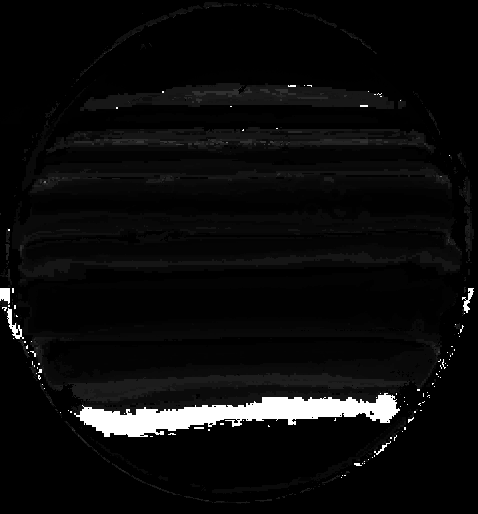
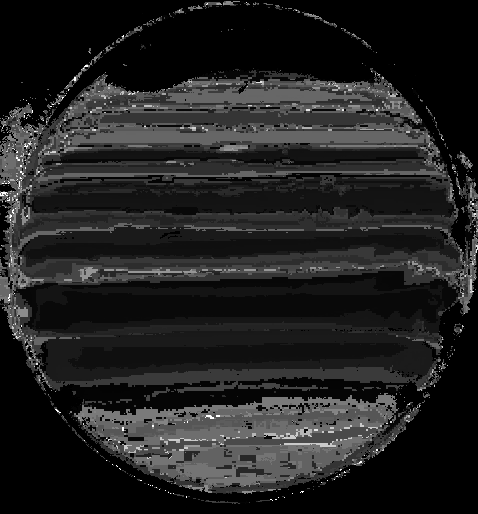
GO

diff --git a/newton_levy.py b/newton_levy.py
@@ -42,7 +42,7 @@ def rgb(dif_marche):
     return r, g, b
 
 
-def plot(epaisseur_max=0.000005, n=500):
+def plot(epaisseur_max=0.00001, n=500):
     couleurs = []
     for i in range(1, n):
         dif_marche = i * epaisseur_max / n
@@ -56,7 +56,7 @@ def plot(epaisseur_max=0.000005, n=500):
     plt.show()
 
 
-def couleur(epaisseur=0.0001, n=1000, precision=2) -> dict:
+def couleur(epaisseur=0.00001, n=500, precision=2, delta=0.5 * (10**-6)) -> dict:
     """
     épaisseur : epaisseur maximal du film, ie jusqu'où on calcule
     n : nombre de valeurs entre 0 et épaisseur
@@ -64,12 +64,14 @@ def couleur(epaisseur=0.0001, n=1000, precision=2) -> dict:
     """
     color = dict()
     vu = dict()
+    previous_color = (0, 0, 0)
     for i in range(1, n):
         dif_marche = i * epaisseur / n
         r, g, b = rgb(dif_marche)
         c = (round(r, precision), round(g, precision), round(b, precision))
         if c in vu.keys():
-            vu[c] += 1
+            if previous_color != c and abs(color[c, vu[c]] - dif_marche) > delta:
+                vu[c] += 1
         else:
             vu[c] = 1
         color[(c, vu[c])] = dif_marche
@@ -77,4 +79,6 @@ def couleur(epaisseur=0.0001, n=1000, precision=2) -> dict:
 
 
 if __name__ == "__main__":
+    plot()
     print(couleur())
+    print(max([i for _, i in couleur().keys()]))
